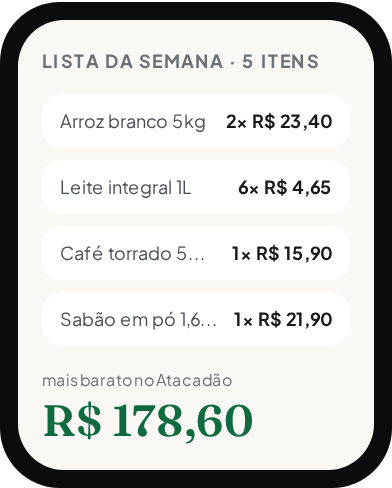
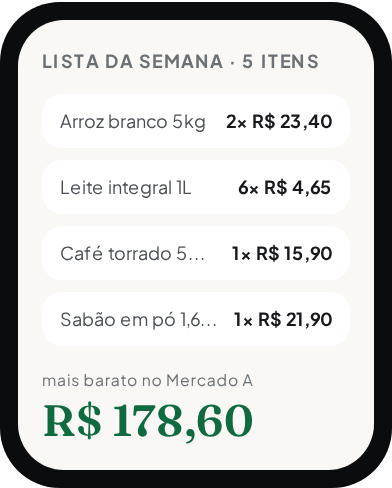
fix(landing): telas de celular com mercados genéricos, sem marca real ao lado de preço
As telas de comparação, lista e impacto mostravam preços de exemplo junto de redes reais
(uma delas fora do RedeModel). Agora usam Mercado A, B e C, contam 3 mercados no raio e
dizem que o preço vem do site da rede e da nota fiscal. O alt descreve a tela sem repetir
marcas nem valores.

Claude-Session: https://claude.ai/code/session_01K7owRKrLsiAWXqUKkstJnM

Changed region(s): [[0.1224, 0.7684, 0.6429, 0.7992]]

diff --git a/Frontend/src/components/site/Phones.jsx b/Frontend/src/components/site/Phones.jsx
@@ -9,6 +9,9 @@ import impactoPapel from '../../assets/landing/celular-impacto-papel.png';
 import { cx } from '../../lib/cx.js';
 import './css/phones.css';
 
+// As telas usam "Mercado A/B/C": preço de exemplo não pode aparecer ao lado de marca real.
+// O alt descreve a tela sem repetir os valores, que são só ilustrativos.
+
 /** Celular da landing: duas imagens (tinta e papel) e o CSS mostra a da superfície atual. */
 function Celular({ tinta, papel, alt, className }) {
   return (
@@ -24,7 +27,7 @@ export const PhonePainel = () => (
     tinta={painelTinta}
     papel={painelPapel}
     className="phone--painel"
-    alt="Imagem ilustrativa. Painel do vera.finance no celular: R$ 1.284 livres até 31 de agosto e as categorias Comida e Rolê"
+    alt="Imagem ilustrativa do painel do vera.finance no celular, com o saldo livre do mês e as categorias Comida e Rolê"
   />
 );
 
@@ -33,7 +36,7 @@ export const PhoneComparar = () => (
     tinta={compararTinta}
     papel={compararPapel}
     className="phone--comparar"
-    alt="Imagem ilustrativa. Comparação do arroz branco 5kg: Atacadão R$ 23,40, Nagumo R$ 24,90, Covabra R$ 26,10"
+    alt="Imagem ilustrativa da tela de comparação de preços, com mercados de exemplo"
   />
 );
 
@@ -44,13 +47,13 @@ export function PhonesLista() {
         tinta={listaTinta}
         papel={listaPapel}
         className="phone--lista"
-        alt="Imagem ilustrativa. Lista da semana com 5 itens, mais barata no Atacadão por R$ 178,60"
+        alt="Imagem ilustrativa da lista da semana, com o total no mercado mais barato"
       />
       <Celular
         tinta={impactoTinta}
         papel={impactoPapel}
         className="phone--impacto"
-        alt="Imagem ilustrativa. Impacto da compra no ciclo: Comida chega a R$ 806"
+        alt="Imagem ilustrativa do impacto da compra na categoria Comida"
       />
     </div>
   );
